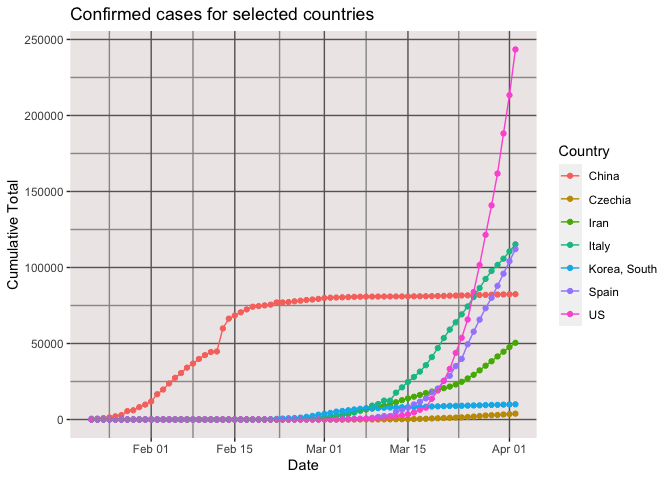
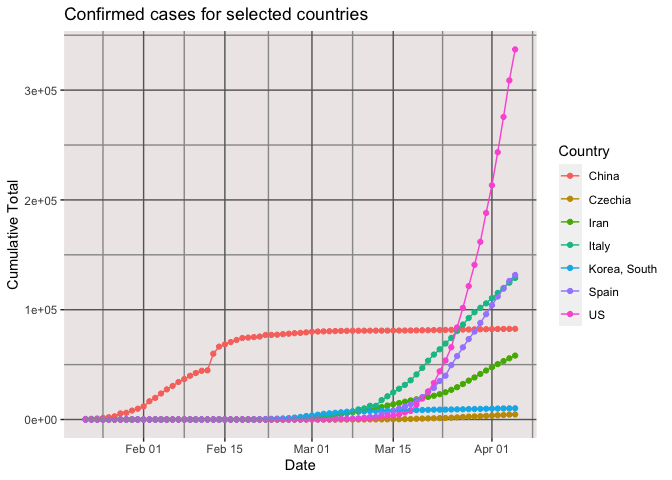
Data thru 2020-04-05.

Changed region(s): [[0.0312, 0.0, 0.8125, 1.0]]

diff --git a/vignettes/covid19_deaths_by_state.md b/vignettes/covid19_deaths_by_state.md
@@ -1,7 +1,7 @@
 COVID-19 Deaths by State
 ================
 [Jim Tyhurst, Ph.D.](https://www.jimtyhurst.com/)
-2020-04-03
+2020-04-05
 
   - [Read data](#read-data)
   - [Cases by state](#cases-by-state)

diff --git a/vignettes/covid19_confirmed_cases.md b/vignettes/covid19_confirmed_cases.md
@@ -1,7 +1,7 @@
 COVID-19 Confirmed Cases
 ================
 [Jim Tyhurst, Ph.D.](https://www.jimtyhurst.com/)
-2020-04-03
+2020-04-05
 
   - [tl;dr](#tldr)
 

diff --git a/vignettes/covid19_deaths.md b/vignettes/covid19_deaths.md
@@ -1,7 +1,7 @@
 COVID-19 Deaths
 ================
 [Jim Tyhurst, Ph.D.](https://www.jimtyhurst.com/)
-2020-04-03
+2020-04-05
 
   - [tl;dr](#tldr)
 
